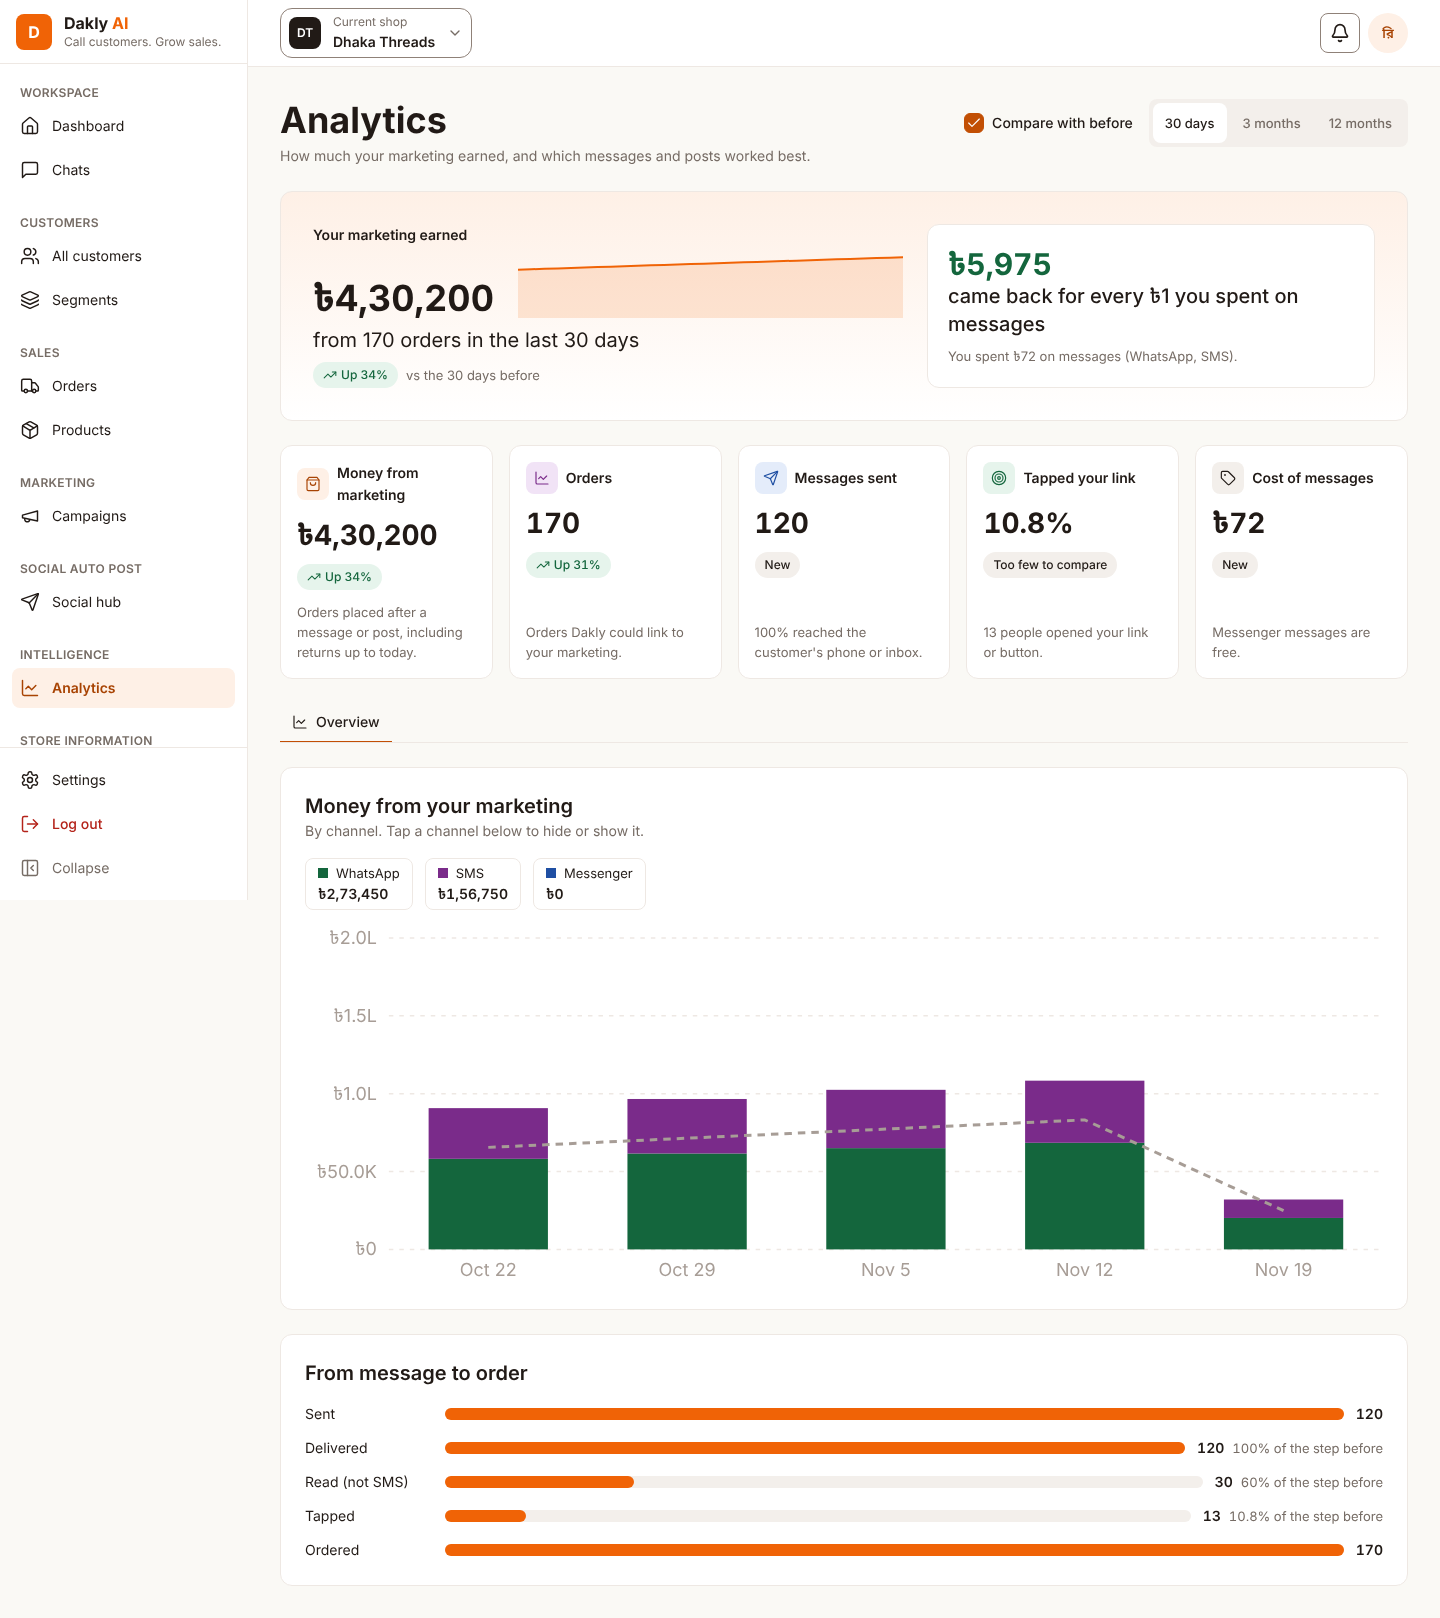
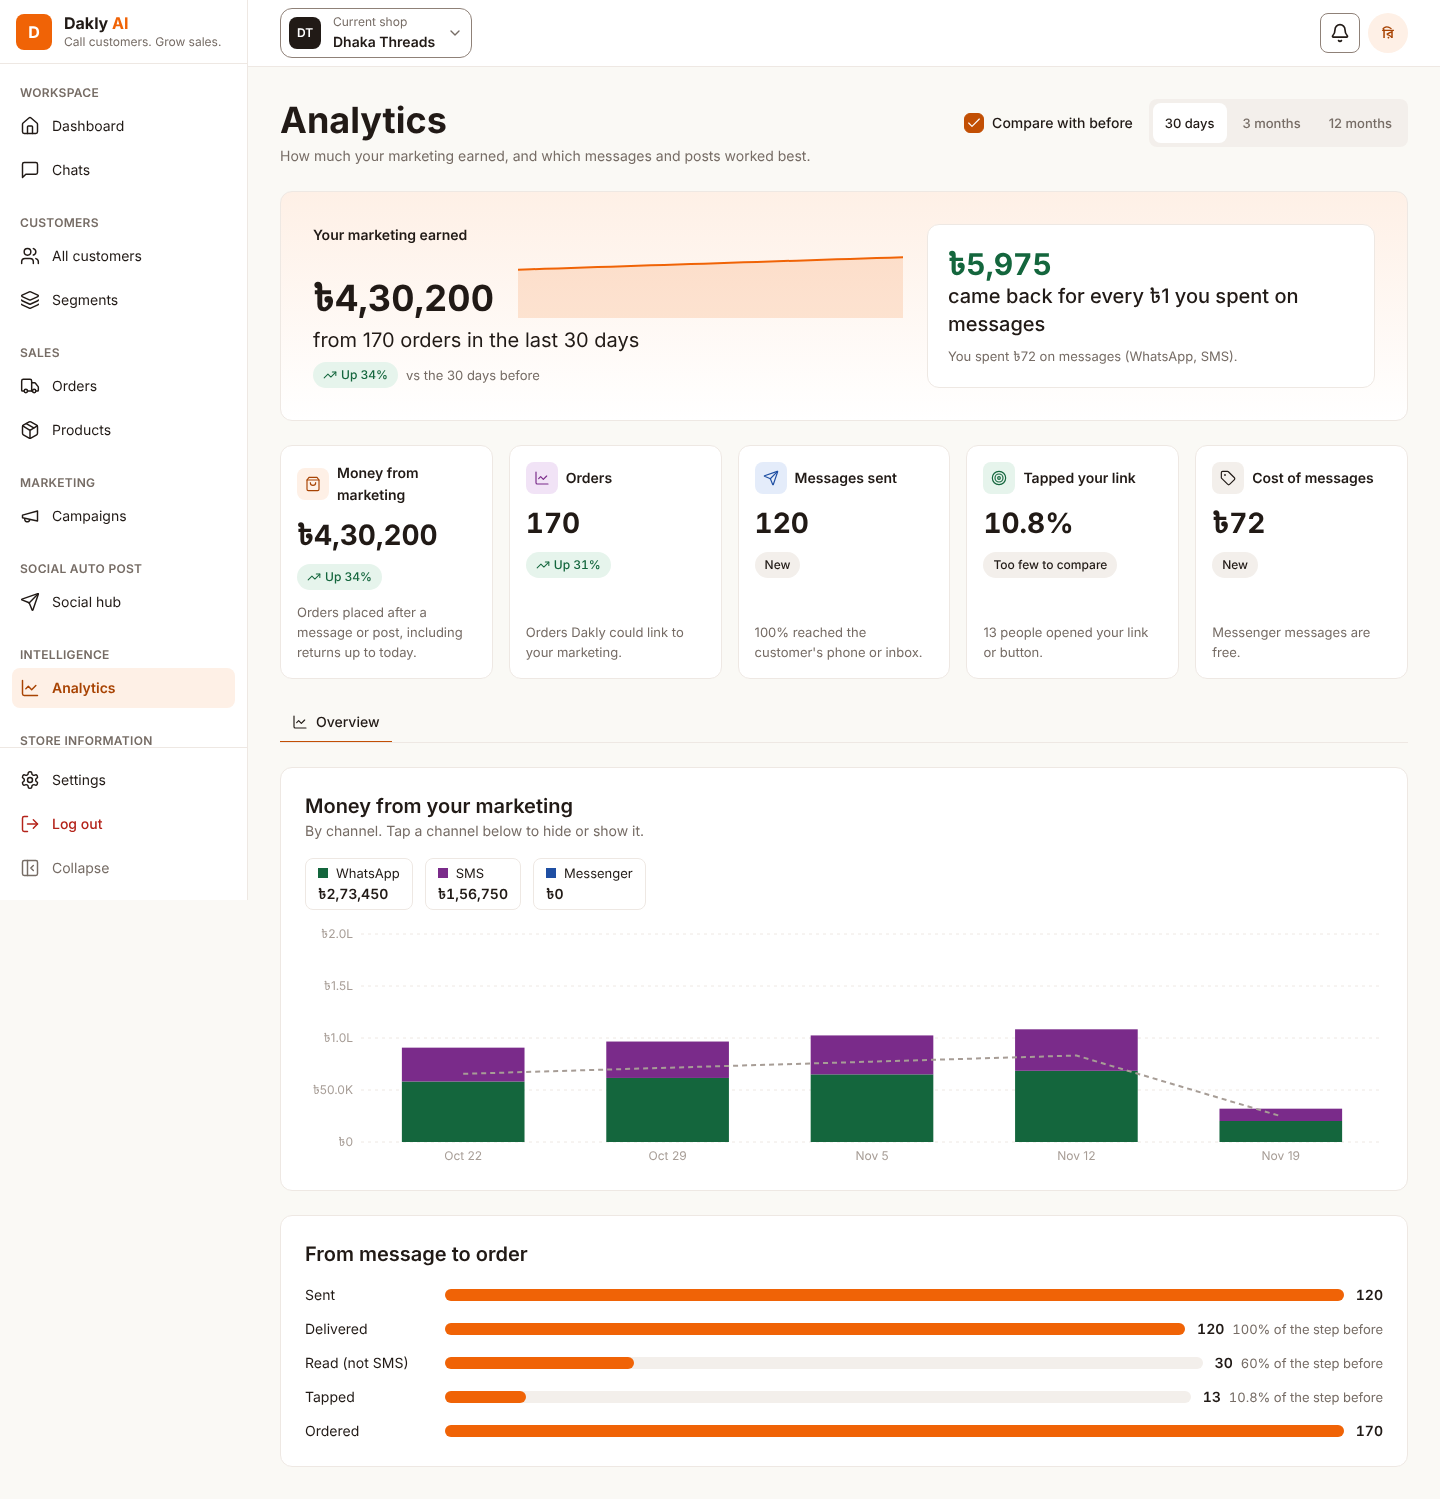
fix(ana-3): fit the weekly chart to the card width

diff --git a/apps/web/src/features/analytics/components/revenue-chart.tsx b/apps/web/src/features/analytics/components/revenue-chart.tsx
@@ -1,6 +1,6 @@
 'use client';
 
-import { useState } from 'react';
+import { useLayoutEffect, useRef, useState } from 'react';
 
 import type { AnalyticsChannel, AnalyticsOverviewResponse } from '@dakly/contracts/analytics';
 import { cn } from '@dakly/ui/cn';
@@ -9,7 +9,7 @@ import { channelFills, channelLabels } from '../analytics-labels';
 import { formatShortDate } from '@/lib/format-date';
 import { formatCompactTaka, formatWholeTaka } from '@/lib/format-money';
 
-const WIDTH = 720;
+const BAR_SLOT = 16;
 const HEIGHT = 240;
 const LEFT = 56;
 const TOP = 8;
@@ -68,6 +68,19 @@ export function RevenueChart({
   );
 }
 
+function useChartWidth(weekCount: number) {
+  const box = useRef<HTMLDivElement>(null);
+  const [available, setAvailable] = useState(720);
+  useLayoutEffect(() => {
+    const measure = () => setAvailable(box.current?.clientWidth || 720);
+    measure();
+    window.addEventListener('resize', measure);
+    return () => window.removeEventListener('resize', measure);
+  }, []);
+  const width = Math.max(available, LEFT + weekCount * BAR_SLOT);
+  return { box, width, scrolls: width > available };
+}
+
 function WeeklyBars({
   weeks,
   shown,
@@ -77,26 +90,30 @@ function WeeklyBars({
   shown: AnalyticsChannel[];
   previous: bigint[];
 }) {
+  const { box, width, scrolls } = useChartWidth(weeks.length);
   const totals = weeks.map(({ byChannel }) =>
     shown.reduce((sum, channel) => sum + BigInt(byChannel[channel] ?? '0'), 0n),
   );
   const step = niceStep([...totals, ...previous].reduce((a, b) => (b > a ? b : a), 0n));
   const top = step * 4n;
   const plotHeight = HEIGHT - TOP - BOTTOM;
-  const slot = (WIDTH - LEFT) / Math.max(1, weeks.length);
+  const slot = (width - LEFT) / Math.max(1, weeks.length);
   const y = (value: bigint) => TOP + plotHeight - (Number(value) / Number(top)) * plotHeight;
   const previousPath = previous
     .map((value, index) => `${index ? 'L' : 'M'}${LEFT + slot * (index + 0.5)},${y(value)}`)
     .join(' ');
   return (
-    <div className="overflow-x-auto">
+    <div ref={box} className="overflow-x-auto">
+      {scrolls && <p className="mb-2 text-sm text-text-muted">Scroll for more weeks.</p>}
       <svg
         role="img"
         aria-label="Money from your marketing by week and channel"
-        viewBox={`0 0 ${WIDTH} ${HEIGHT}`}
-        className="h-auto w-full min-w-[32rem] text-text-muted"
+        viewBox={`0 0 ${width} ${HEIGHT}`}
+        width={width}
+        height={HEIGHT}
+        className="max-w-none text-text-muted"
       >
-        <Axis ticks={[0n, step, step * 2n, step * 3n, top]} y={y} />
+        <Axis ticks={[0n, step, step * 2n, step * 3n, top]} y={y} width={width} />
         {weeks.map((week, index) => (
           <WeekBars
             key={week.weekStart}
@@ -130,14 +147,22 @@ function niceStep(value: bigint): bigint {
   return BigInt(unit * magnitude) * 100n;
 }
 
-function Axis({ ticks, y }: { ticks: bigint[]; y: (value: bigint) => number }) {
+function Axis({
+  ticks,
+  y,
+  width,
+}: {
+  ticks: bigint[];
+  y: (value: bigint) => number;
+  width: number;
+}) {
   return (
     <>
       {ticks.map((tick) => (
         <g key={tick.toString()}>
           <line
             x1={LEFT}
-            x2={WIDTH}
+            x2={width}
             y1={y(tick)}
             y2={y(tick)}
             className="stroke-border"

diff --git a/apps/web/src/features/dashboard/components/dashboard-metrics.tsx b/apps/web/src/features/dashboard/components/dashboard-metrics.tsx
@@ -6,7 +6,6 @@ import { Badge } from '@dakly/ui/badge';
 import { Card } from '@dakly/ui/card';
 import { cn } from '@dakly/ui/cn';
 
-import { formatChange } from '@/lib/format-change';
 import { formatWholeTaka } from '@/lib/format-money';
 
 const metrics = [
@@ -108,11 +107,20 @@ function ReportChange({ total, previous, period }: Comparison) {
     <div className="flex flex-wrap items-center gap-x-2 gap-y-1 text-sm text-text-muted">
       <Badge variant={variant} className="gap-1 rounded-full tabular-nums">
         {variant !== 'neutral' && icon}
-        {formatChange(total, previous)}
+        {change(total, previous)}
       </Badge>
       <span>vs previous {period} days</span>
     </div>
   );
+}
+
+function change(total: bigint, previous: bigint) {
+  if (previous === 0n) return 'New';
+  const delta = total - previous;
+  if (delta === 0n) return '0.0%';
+  const magnitude = delta < 0n ? -delta : delta;
+  const tenths = (magnitude * 1000n + previous / 2n) / previous;
+  return `${delta < 0n ? '-' : '+'}${formatCount(tenths / 10n)}.${tenths % 10n}%`;
 }
 
 function Sparkline({ points, className }: { points: string[]; className: string }) {

diff --git a/apps/web/src/lib/format-change.ts b/apps/web/src/lib/format-change.ts
@@ -1,18 +1,7 @@
 import { formatCount } from '@dakly/contracts/money';
 
-// One decimal place, rounded half up, so the same two totals read the same on every screen.
-export function formatChange(total: bigint, previous: bigint): string {
-  if (previous === 0n) return 'New';
-  const delta = total - previous;
-  if (delta === 0n) return '0.0%';
-  const magnitude = delta < 0n ? -delta : delta;
-  const tenths = (magnitude * 1000n + previous / 2n) / previous;
-  return `${delta < 0n ? '-' : '+'}${formatCount(tenths / 10n)}.${tenths % 10n}%`;
-}
-
 export type ChangeLabel = { variant: 'success' | 'danger' | 'neutral'; text: string };
 
-// Analytics says "Up 23%" in whole percent; fewer than `minimum` on either side is too few to compare.
 export function describeChange(total: bigint, previous: bigint, minimum = 0n): ChangeLabel {
   if (total < minimum || previous < minimum)
     return { variant: 'neutral', text: 'Too few to compare' };

diff --git a/apps/web/src/features/analytics/components/analytics-tabs.tsx b/apps/web/src/features/analytics/components/analytics-tabs.tsx
@@ -1,16 +1,12 @@
 import { ChartLine } from 'lucide-react';
 import Link from 'next/link';
 
-import type { AnalyticsTab, AnalyticsView } from '@dakly/contracts/analytics';
+import type { AnalyticsView } from '@dakly/contracts/analytics';
 import { cn } from '@dakly/ui/cn';
 
 import { analyticsHref } from '../api/analytics-overview';
 
-const tabs = [{ id: 'overview', label: 'Overview', icon: ChartLine }] as const satisfies readonly {
-  id: AnalyticsTab;
-  label: string;
-  icon: typeof ChartLine;
-}[];
+const tabs = [{ id: 'overview', label: 'Overview', icon: ChartLine }] as const;
 
 export function AnalyticsTabs({ view }: { view: AnalyticsView }) {
   return (

diff --git a/apps/web/src/lib/format-change.spec.ts b/apps/web/src/lib/format-change.spec.ts
@@ -1,15 +1,6 @@
 import { describe, expect, it } from 'vitest';
 
-import { describeChange, formatChange } from './format-change';
-
-describe('formatChange', () => {
-  it('writes one decimal with a sign', () => {
-    expect(formatChange(123n, 100n)).toBe('+23.0%');
-    expect(formatChange(95n, 100n)).toBe('-5.0%');
-    expect(formatChange(100n, 100n)).toBe('0.0%');
-    expect(formatChange(5n, 0n)).toBe('New');
-  });
-});
+import { describeChange } from './format-change';
 
 describe('describeChange', () => {
   it('says Up or Down in whole percent', () => {

diff --git a/apps/web/src/features/analytics/analytics-labels.ts b/apps/web/src/features/analytics/analytics-labels.ts
@@ -6,7 +6,6 @@ export const channelLabels: Record<AnalyticsChannel, string> = {
   messenger: 'Messenger',
 };
 
-// Chart fills and legend swatches share these theme tokens.
 export const channelFills: Record<AnalyticsChannel, { fill: string; swatch: string }> = {
   whatsapp: { fill: 'fill-success', swatch: 'bg-success' },
   sms: { fill: 'fill-ai', swatch: 'bg-ai' },
